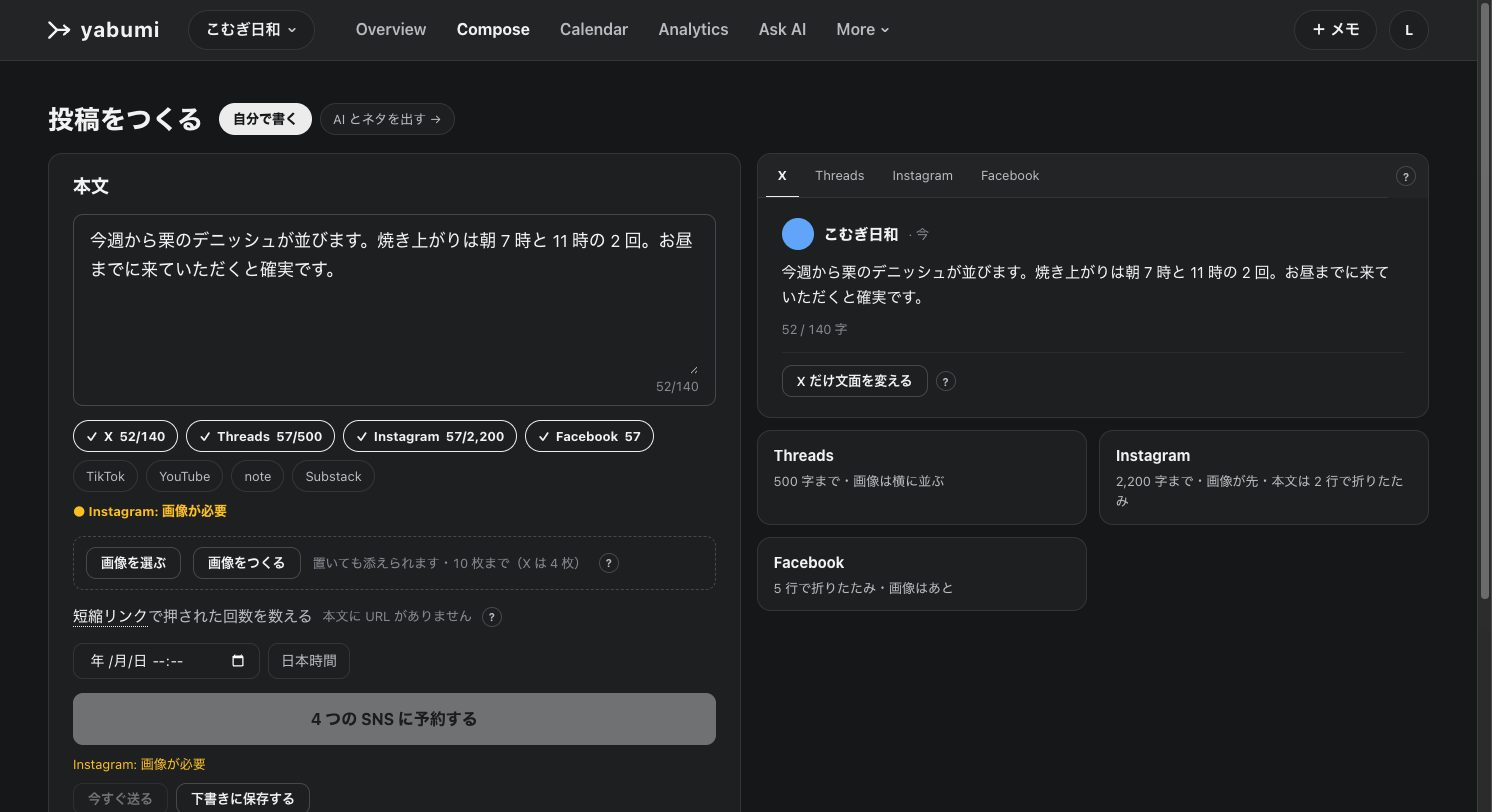
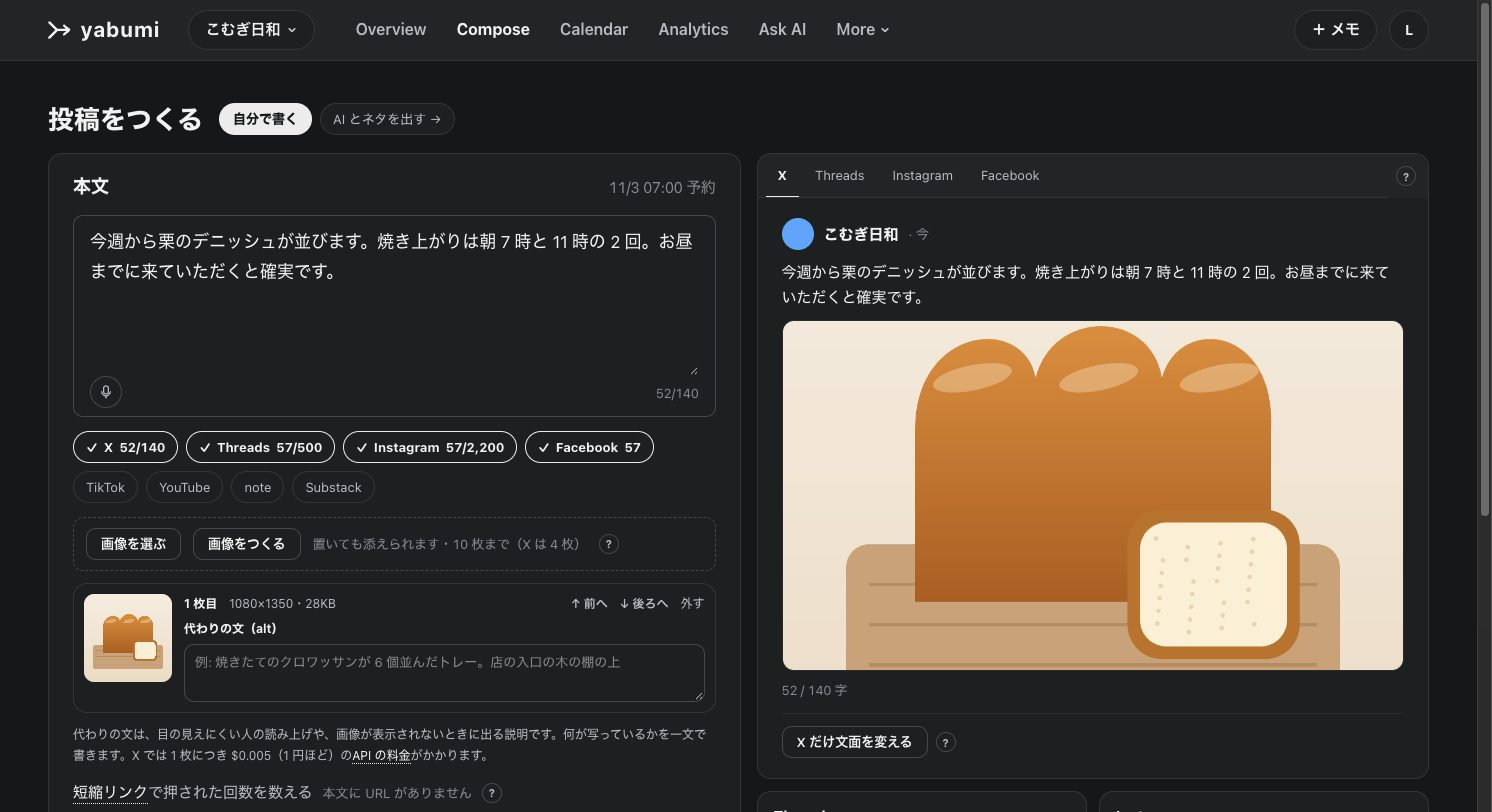
LP の投稿をつくるの見本を、4 つの SNS がそろって予約できる状態で撮り直す（PM の確認）
- 見本用にその場で描いたパンの絵（canvas。写真や素材は使わない）を 1 枚添え、送る日時を入れて撮った。「Instagram: 画像が必要」と押せない予約のボタンは写らない
- scripts/lp-demo.mjs: X を画像を送る権限（media.write）つきでつないだことにする（見本用の文字列のトークン。送信には使わない）。「つなぎ直しが要ります」が写らないように。remove で、添えた画像（Storage の post-media）も消す
- README の撮り方に、画像と日時を入れることを書いた

diff --git a/README.md b/README.md
@@ -200,7 +200,7 @@ commit;
 
 1. `node scripts/lp-demo.mjs seed http://127.0.0.1:3102` で、見本用の利用者 lp-demo@yabumi.test と、架空のパン屋「こむぎ日和」（お店。D34）のデータを作る（ローカルの Supabase だけで動く。何度でも作り直せる）。ログイン用のリンクが出る
 2. `npx next dev -p 3102 -H 127.0.0.1` で開発サーバーを開き、ブラウザで 1 のリンクを開く（127.0.0.1 で開くと、localhost でログインしている自分のアカウントと混ざらない）
-3. 画面の幅 1492・高さ 812 で、概要（coach）・投稿をつくる（compose。本文に文を入れる）・カレンダー（calendar。週）・ネタ帳（notes）・分析（metrics）・アカウント設計（plan）を撮る。左下の Next.js の印は消してから撮る。ライトを撮ったら、アカウントの丸のメニューの「ダーク」で切り替えて同じものを撮る（見本用の利用者は、いまの版の規約に同意したことにしてあるので、同意の帯は出ない）
+3. 画面の幅 1492・高さ 812 で、概要（coach）・投稿をつくる（compose。本文に文を入れ、日時を入れ、見本用にその場で描いたパンの絵（写真や素材は使わない）を 1 枚添えて、4 つの SNS がそろって予約できる状態にする）・カレンダー（calendar。週）・ネタ帳（notes）・分析（metrics）・アカウント設計（plan）を撮る。左下の Next.js の印は消してから撮る。ライトを撮ったら、アカウントの丸のメニューの「ダーク」で切り替えて同じものを撮る（見本用の利用者は、いまの版の規約に同意したことにしてあるので、同意の帯は出ない）
 4. public/lp/ に `<名前>-light.jpg`・`<名前>-dark.jpg` で置く（1 枚 100KB ほどまで）
 5. `node scripts/lp-demo.mjs remove` で見本用の利用者とデータを消す
 
